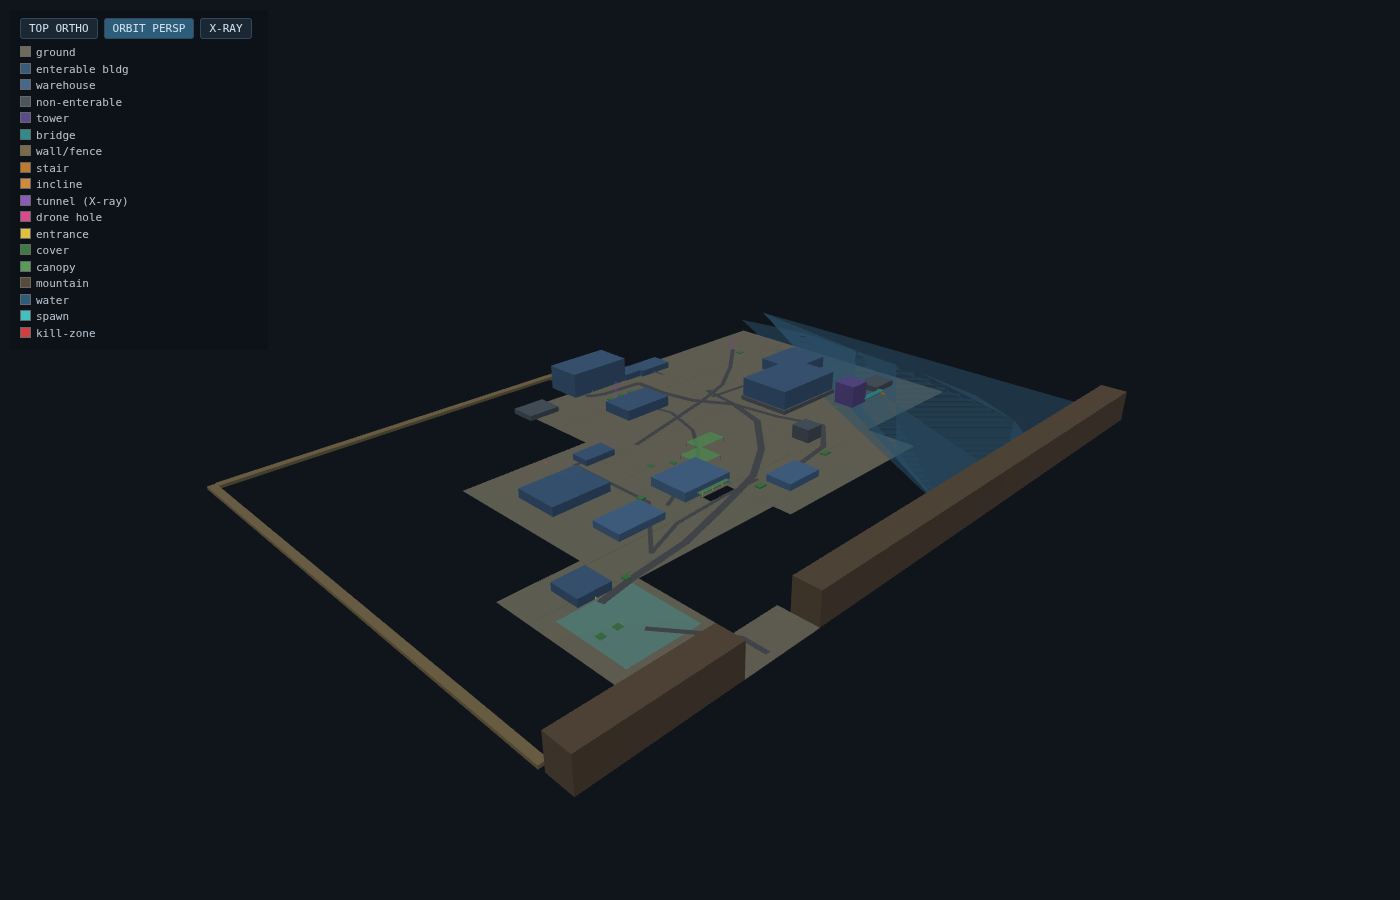
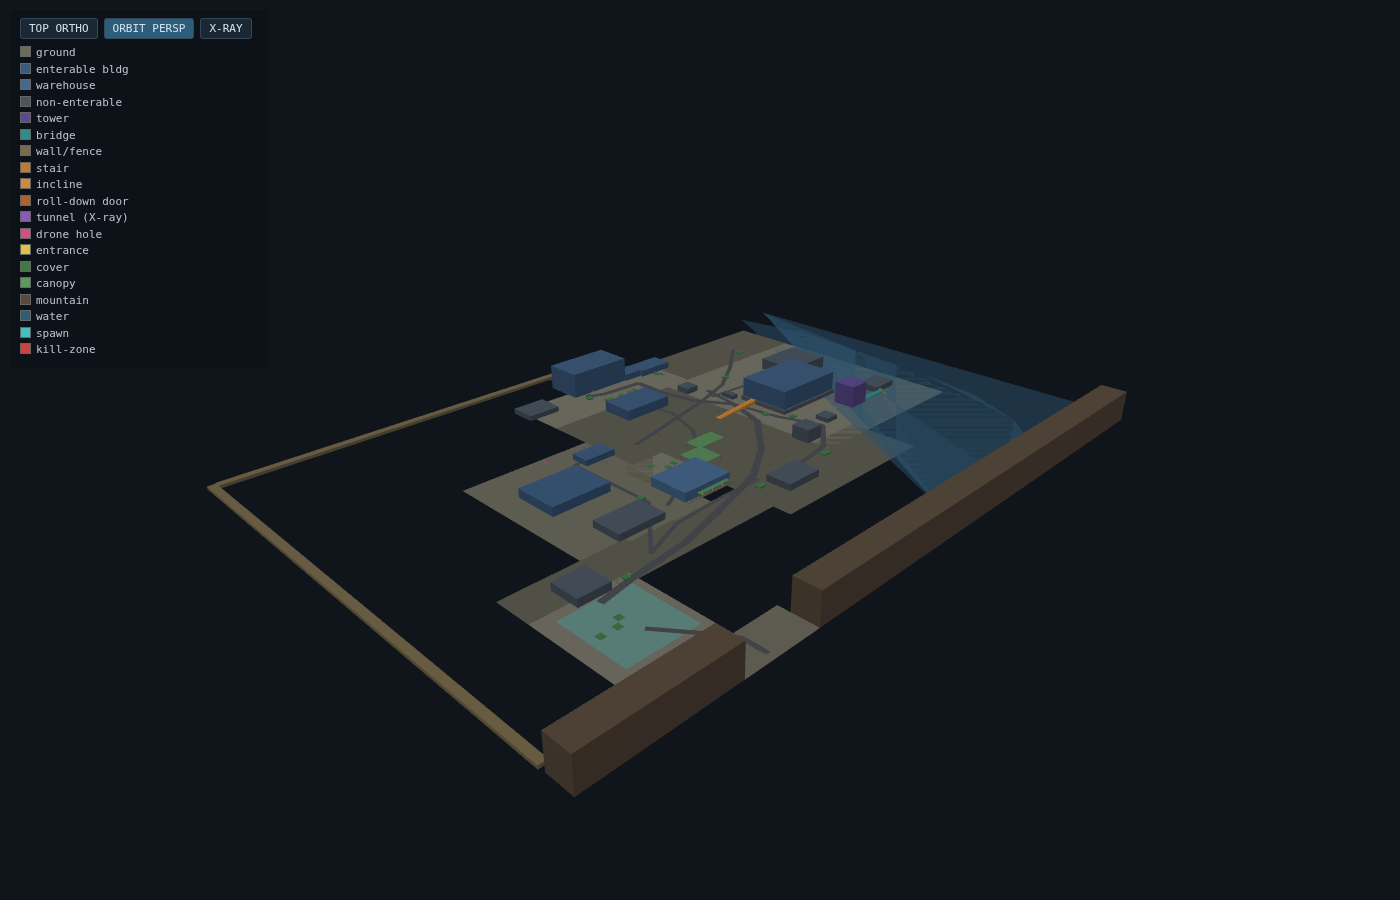
full-map blockout r2: review-driven revision
- enterable demoted to route/objective/chokepoint-backed buildings only
  (gatehouse, north shed, pressure store, plant annex -> facade-non-enterable;
  their doors removed) — no unreachable interiors
- overlaps removed: catwalk abuts tower east face, incline door on landing,
  water envelope clear of fence, portal markers are low rings not shafts
- tags deepened: roll-down doors (deploy + loading bays, sealable), interior
  wall-blocking (checkpoint court channel walls), 7 new covers, ground
  color-coded by surface class (concrete/asphalt/gravel)
- density toward reference metrics (refs mass 0.42-0.85, sky<0.06): container
  stack rows, tank farm, yard covers; open yards kept as deliberate lanes
- ortho camera tightened so the campus fills the frame
- validator: roll-down gate added; traversal: cover-distance check samples
  route segments, not just waypoints

diff --git a/editor/blockout-viewer.html b/editor/blockout-viewer.html
@@ -26,7 +26,7 @@ const WORLD = { x: [-465, 475], z: [-325, 340] };
 const cx = (WORLD.x[0] + WORLD.x[1]) / 2, cz = (WORLD.z[0] + WORLD.z[1]) / 2;
 const span = Math.max(WORLD.x[1] - WORLD.x[0], WORLD.z[1] - WORLD.z[0]);
 // orthographic top view (default) + perspective orbit camera
-const camO = new THREE.OrthographicCamera(-span * 0.75, span * 0.75, span * 0.75, -span * 0.75, 1, 3000);
+const camO = new THREE.OrthographicCamera(-span * 0.55, span * 0.55, span * 0.55, -span * 0.55, 1, 3000);
 camO.position.set(cx, 900, cz + 0.01); camO.up.set(0, 0, 1); camO.lookAt(cx, 0, cz); // north-up
 const camP = new THREE.PerspectiveCamera(50, innerWidth / innerHeight, 1, 4000);
 camP.position.set(-760, 520, 760); camP.lookAt(cx, 0, cz);
@@ -59,7 +59,7 @@ const setCam = (top) => {
 document.getElementById('bTop').onclick = () => setCam(true);
 document.getElementById('bOrbit').onclick = () => setCam(false);
 // legend mirrors tools/gen-full-geometry palette
-const LEG = [['#6e6a5a','ground'],['#3a5a7c','enterable bldg'],['#46688c','warehouse'],['#4a5560','non-enterable'],['#5b4a8c','tower'],['#2e8c8c','bridge'],['#7a6a4a','wall/fence'],['#c07a2e','stair'],['#d08a3a','incline'],['#8a5ab8','tunnel (X-ray)'],['#d84a8c','drone hole'],['#e0c040','entrance'],['#3f7a45','cover'],['#5a9a5a','canopy'],['#5a4a3a','mountain'],['#2e5d7a','water'],['#40c0c0','spawn'],['#d04040','kill-zone']];
+const LEG = [['#6e6a5a','ground'],['#3a5a7c','enterable bldg'],['#46688c','warehouse'],['#4a5560','non-enterable'],['#5b4a8c','tower'],['#2e8c8c','bridge'],['#7a6a4a','wall/fence'],['#c07a2e','stair'],['#d08a3a','incline'],['#b06030','roll-down door'],['#8a5ab8','tunnel (X-ray)'],['#d84a8c','drone hole'],['#e0c040','entrance'],['#3f7a45','cover'],['#5a9a5a','canopy'],['#5a4a3a','mountain'],['#2e5d7a','water'],['#40c0c0','spawn'],['#d04040','kill-zone']];
 document.getElementById('legend').innerHTML = LEG.map(([c, n]) => `<span class="chip" style="background:${c}"></span>${n}`).join('<br>');
 new GLTFLoader().load('./blockout-full.glb', (g) => {
   g.scene.traverse(o => {

diff --git a/out/traversal-report.md b/out/traversal-report.md
@@ -59,24 +59,31 @@ Pacing: core-approach surface roads ~1126m (sum main surface + covered route).
 ## Cover placement (vs named interrupts)
 
 - cv-gate-w: 15m both/full OK
-- cv-gate-e: 9m both/full OK
-- cv-pressure-w: 21m both/full OK
-- cv-pressure-e: 20m both/full OK
+- cv-gate-e: 6m both/full OK
+- cv-pressure-w: 18m both/full OK
+- cv-pressure-e: 12m both/full OK
 - cv-mix-1: 16m ground/low OK
-- cv-mix-2: 17m ground/mid OK
+- cv-mix-2: 3m ground/mid OK
+- cv-mix-3: 6m ground/mid OK
 - cv-court-barr-1: 16m ground/full OK
 - cv-court-barr-2: 4m ground/full OK
 - cv-court-barr-3: 22m ground/full OK
-- cv-plant-spur: 8m ground/full OK
-- cv-annex-e: 18m ground/mid OK
-- cv-maint-n: 12m both/full OK
-- cv-spawn-1: 12m ground/low OK
-- cv-spawn-2: 17m ground/low OK
+- cv-plant-spur: 5m ground/full OK
+- cv-annex-e: 12m ground/mid OK
+- cv-maint-n: 2m both/full OK
+- cv-spawn-1: 7m ground/low OK
+- cv-spawn-2: 12m ground/low OK
+- cv-spawn-3: 5m ground/low OK
+- cv-east-1: 5m ground/mid OK
+- cv-east-2: 9m both/full OK
+- cv-east-3: 2m ground/full OK
+- cv-core-1: 8m both/full OK
+- cv-core-2: 6m ground/mid OK
 
 ## Kill-zone closures
 
-- kz-core: covers=[] buildings=[bld-core-ops-hall,bld-core-walkway] tunnel=[] CLOSED
-- kz-plant: covers=[cv-plant-spur] buildings=[bld-processing-hall] tunnel=[] CLOSED
+- kz-core: covers=[cv-core-1] buildings=[bld-core-ops-hall,bld-core-walkway] tunnel=[] CLOSED
+- kz-plant: covers=[cv-plant-spur,cv-east-1] buildings=[bld-processing-hall] tunnel=[] CLOSED
 - kz-court: covers=[cv-court-barr-1,cv-court-barr-2,cv-court-barr-3] buildings=[bld-security-hall,bld-core-walkway] tunnel=[tp-west,tun-a] CLOSED
 
 ## Vertical transitions
@@ -85,7 +92,6 @@ Pacing: core-approach surface roads ~1126m (sum main surface + covered route).
 - incline_plant (ramp, host in-plant): hub/east yard -> processing hall floor 1 (+6m raised base, 72m run) — capsule-OK
 - stair_tower (stair, host bld-service-tower): 5 floors + catwalk exit east — capsule-OK
 - stair_core (stair, host bld-core-ops-hall): 6 floors; objective on floor 2 — capsule-OK
-- stair_annex (stair, host bld-plant-annex): 2 floors — capsule-OK
 - stair_maint (stair, host bld-maintenance): 2 floors — capsule-OK
 - stair_security (stair, host bld-security-hall): 2 floors — capsule-OK
 - stair_catwalk_e (stair, host st-catwalk-e): catwalk (+6m) -> east yard — capsule-OK
